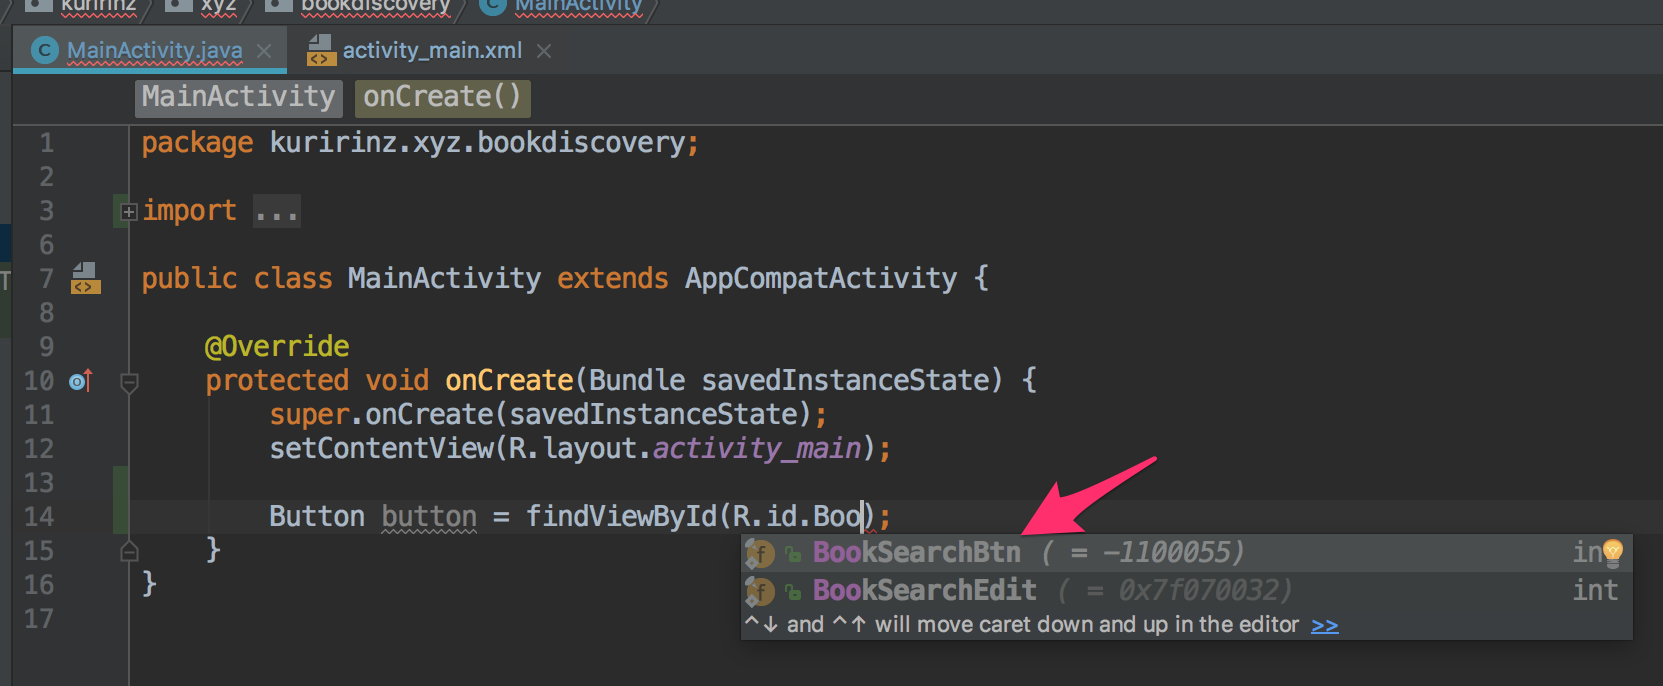
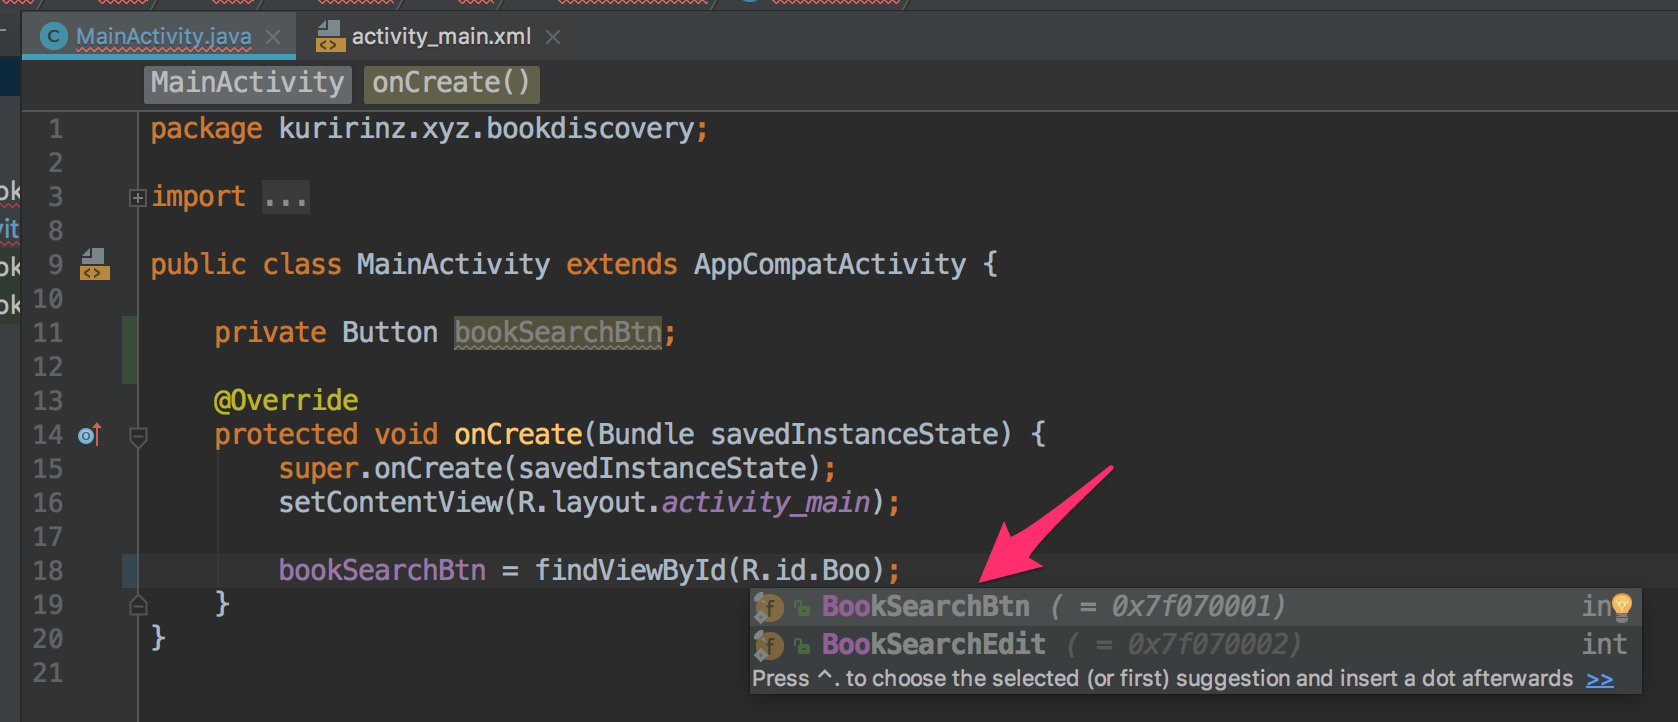
EditTextの入力内容をログに出力する手順を紹介

Changed region(s): [[0.0, 0.0, 1.0, 0.9796], [0.46, 0.0, 0.5213, 0.0306]]

diff --git a/source/_posts/android/05-SearchBooks.md b/source/_posts/android/05-SearchBooks.md
@@ -91,14 +91,14 @@ IDを変更するとComponent Treeの内容を変更が反映されます
 ...
 public class MainActivity extends AppCompatActivity {
 
+    private Button bookSearchBtn;
+
     @Override
     protected void onCreate(Bundle savedInstanceState) {
         super.onCreate(savedInstanceState);
         setContentView(R.layout.activity_main);
 
-        //↓↓↓↓↓↓↓↓↓↓↓↓↓↓↓↓↓↓追加↓↓↓↓↓↓↓↓↓↓↓↓↓↓↓↓↓↓
-        Button button = findViewById(R.id.BookSearchBtn);
-        //↑↑↑↑↑↑↑↑↑↑↑↑↑↑↑↑↑↑↑↑↑↑↑↑↑↑↑↑↑↑↑↑↑↑↑↑↑↑↑
+        bookSearchBtn = findViewById(R.id.BookSearchBtn);
     }
 }
 ```
@@ -109,11 +109,12 @@ public class MainActivity extends AppCompatActivity {
 
 |No.  |各No.のコードの説明                                     |
 |:---:|:----------------------------------------------------|
-|①   |activity_main.xmlから探してくるウィジェットの型            |
-|②   |MainActivity.javaで使う時のユニークな名前                 |
-|③   |activity_main.xmlからウィジェットを探すためのメソッド（関数） |
-|④   |activity_main.xmlから探すウィジェット/ビューのユニークID    |
-
+|①   |②〜③で宣言するウィジェットの使用範囲の指定コード             |
+|②   |activity_main.xmlから探してくるウィジェットの型            |
+|③   |MainActivity.javaで使う時のユニークな名前                 |
+|④   |②〜③で宣言したウィジェットを変更する時の記述方法             |
+|⑤   |activity_main.xmlからウィジェットを探すためのメソッド（関数  |
+|⑥   |activity_main.xmlから探すウィジェット/ビューのユニークID    |
 
 これで"蔵書検索"ボタンをxmlレイアウトとMainActivity.javaのプログラムで関連付けることができました。
 
@@ -127,9 +128,9 @@ public class MainActivity extends AppCompatActivity {
         super.onCreate(savedInstanceState);
         setContentView(R.layout.activity_main);
 
-        Button button = findViewById(R.id.BookSearchBtn);
+        bookSearchBtn = findViewById(R.id.BookSearchBtn);
         //↓↓↓↓↓↓↓↓↓↓↓↓↓↓↓↓↓↓追加↓↓↓↓↓↓↓↓↓↓↓↓↓↓↓↓↓↓
-        button.setOnClickListener(new View.OnClickListener() {
+        bookSearchBtn.setOnClickListener(new View.OnClickListener() {
             @Override
             public void onClick(View v) {
                 Log.d("BookSearchBtn", "onClick: BookSearch Button");
@@ -141,7 +142,50 @@ public class MainActivity extends AppCompatActivity {
 ```
 次回以降でクリックアクションのプログラムに関して解説しますので、理解できていなくて問題無しです！
 
-## 文字入力アクションの実装
+まずは一度動作確認をしてみましょう、`Run`アイコンをクリックしてエミュレータを起動します。
+アプリ画面が表示されたら**蔵書検索**ボタンをクリックしてみてください。
+以下のようにAndroid Studioの左下<font color="red">Logcat</font>タブをクリックし、赤枠のログが出力されていることを確認してみましょう。
+<img src="setid07.png" alt="alt" title="reration code" width="650">
+上記で表示させたログですが、出力するためには以下のようにコードを記述する必要があります。
+ログはプログラム不具合の原因を調査したり、期待するデータが取得できていることなどに活用しますのでログを出力させるための
+テンプレートとして以下の書き方を覚えておきましょう。
+```
+Log.d("tag name", "message");
+```
+
+引き続きこのログを使っていきます、次は**蔵書検索**ボタンの横に配置したEditTextに入力された文字をログに出力してみます。
+MainActivity.javaのコードを修正していきます。
+<font color="RoyalBlue">***MainActivity.java***</font>
+```
+    private Button bookSearchBtn;
+    //↓↓↓↓↓↓↓↓↓↓↓↓↓↓↓↓↓↓追加↓↓↓↓↓↓↓↓↓↓↓↓↓↓↓↓↓↓
+    private EditText bookSearchEditor;
+    //↑↑↑↑↑↑↑↑↑↑↑↑↑↑↑↑↑↑↑↑↑↑↑↑↑↑↑↑↑↑↑↑↑↑↑↑↑↑↑
+
+    @Override
+    protected void onCreate(Bundle savedInstanceState) {
+        super.onCreate(savedInstanceState);
+        setContentView(R.layout.activity_main);
+
+        bookSearchBtn = findViewById(R.id.BookSearchBtn);
+        //↓↓↓↓↓↓↓↓↓↓↓↓↓↓↓↓↓↓追加↓↓↓↓↓↓↓↓↓↓↓↓↓↓↓↓↓↓
+        bookSearchEditor = findViewById(R.id.BookSearchEdit);
+        //↑↑↑↑↑↑↑↑↑↑↑↑↑↑↑↑↑↑↑↑↑↑↑↑↑↑↑↑↑↑↑↑↑↑↑↑↑↑↑
+        bookSearchBtn.setOnClickListener(new View.OnClickListener() {
+            @Override
+            public void onClick(View v) {
+                //↓↓↓↓↓↓↓↓↓↓↓↓↓↓↓↓↓↓修正↓↓↓↓↓↓↓↓↓↓↓↓↓↓↓↓↓↓
+                Log.d("BookSearchBtn", "入力された文字は [" + bookSearchEditor.getText().toString() + "]です。");
+               //↑↑↑↑↑↑↑↑↑↑↑↑↑↑↑↑↑↑↑↑↑↑↑↑↑↑↑↑↑↑↑↑↑↑↑↑↑↑↑
+            }
+        });
+    }
+```
+コードの修正が終わったら`Run`アイコンをクリックしてエミュレータにアプリをインストールし直します。
+アプリ画面が表示されたら文字を入力してから**蔵書検索**ボタンをクリックして、先ほど同様に<font color="red">Logcat</font>でログを確認してみましょう。
+<img src="setid08.png" alt="alt" title="reration code" width="300">
+<img src="setid09.png" alt="alt" title="reration code" width="650">
+入力した文字が表示されたのが確認できましたか？
 
 # REST API通信処理
 
